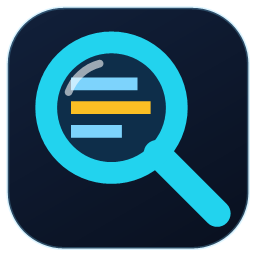
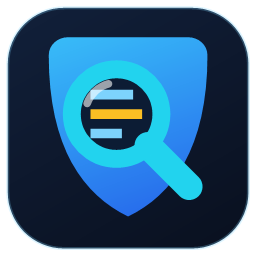
Rebrand to CodeSentinel AI v1.1.0
New identity, icon and screenshots; documents the modern UI, the Logs
section, persistent settings, and the security posture of AI triage
(no bundled key, no key-entry screen, explicit consent, local-only by
default).

diff --git a/README.md b/README.md
@@ -1,17 +1,17 @@
 <div align="center">
 
-<img src="assets/app-256.png" width="120" alt="Code Sanitization Scanner">
+<img src="assets/app-256.png" width="120" alt="CodeSentinel AI">
 
-# Code Sanitization Scanner
+# CodeSentinel AI
 
-**Find sensitive words and hardcoded secrets anywhere in a codebase — and get a clean Excel report.**
+**AI-assisted source code security and sanitization scanner for Windows.**
 
-A Windows desktop app for source-code review and sanitization.
-Point it at a folder, give it your word lists, and it tells you exactly where every
-term and every hardcoded key appears — file, line, and whether it is real code or a comment.
+Point it at a project, give it your word lists, and it finds every sensitive term
+and every hardcoded secret — file, line, and whether the hit is real code or a comment —
+then writes a detailed Excel report.
 
 [![Download](https://img.shields.io/badge/Download-Windows%20Installer-2563eb?style=for-the-badge&logo=windows)](../../releases/latest)
-[![Version](https://img.shields.io/badge/version-1.0.0-informational?style=for-the-badge)](../../releases/latest)
+[![Version](https://img.shields.io/badge/version-1.1.0-38bdf8?style=for-the-badge)](../../releases/latest)
 [![Platform](https://img.shields.io/badge/Windows-10%20%7C%2011-0078d4?style=for-the-badge)](../../releases/latest)
 
 **[⬇ Download the latest release](../../releases/latest)**
@@ -20,88 +20,105 @@ term and every hardcoded key appears — file, line, and whether it is real code
 
 ---
 
-## What it does
+## Why
 
-Security reviews and sanitization passes usually mean grepping a repo for a long list of
-risky names — `accountNumber`, `password`, `apiKey`, `aadhaar` — and then checking every hit
-by hand. This app does the whole pass in one run and hands you a workbook you can actually
-work through: one sheet per term, every hit clickable straight to the file.
+Sanitization reviews usually mean grepping a repository for a long list of risky names —
+`accountNumber`, `password`, `apiKey`, `aadhaar` — then checking every hit by hand.
+CodeSentinel AI does the whole pass in one run and hands you a workbook you can actually
+work through, with every hit clickable straight to its file.
 
-It also looks for the thing a word list can never find: **hardcoded secret *values***, such as
-an AWS key or a live card number sitting in a string, even when the variable around it has a
-perfectly innocent name.
+It also finds what a word list never can: **hardcoded secret *values*** — an AWS key, a JWT,
+a live card number sitting in a string — even when the variable around it looks innocent.
 
 <div align="center">
-<img src="docs/screen-scan.png" width="760" alt="Scan tab">
+<img src="docs/screen-scan.png" width="820" alt="Scan dashboard">
 </div>
 
 ---
 
 ## Features
 
-### Scanning
-- **Any file type.** Scans the folder and every subfolder. Default is *every* file type; restrict it to `.js, .html, .py` or anything else when you want a narrower pass.
-- **Multiple word lists.** Load as many `.txt` lists as you like; duplicates across lists are merged automatically.
-- **Literal, safe matching.** Terms are matched literally, so `a:b*c[d]` never behaves like a regular expression.
-- **Whole-word mode.** Uses identifier boundaries, so `id` matches `user.id` and `(id)` but not `userId` or `identity`. Switch it off for substring matching.
-- **Case-sensitive or not**, your choice.
-- **Binary files are skipped automatically**, detected by content rather than by extension, so images, DLLs and archives never pollute the report.
-- **Large-file guard** with a configurable size limit, and folders such as `node_modules`, `.git`, `dist`, `build` skipped by default.
+### Scan dashboard
+- Project card: folder picker, multi-select word lists, live count of lists
+- Report card: output path, and file types (`*` for everything, or `.js, .html, .py`)
+- **Live progress**: files scanned, word matches, secret findings and duration update *while* the scan runs
+- Status at a glance: **Ready · Scanning · Completed · Failed · Stopped**
+- **Start / Stop** — scanning runs in a separate process, so the window never freezes and Stop really stops it
 
-### Code vs. comment — per occurrence
-A real lexer, not a naive search. For every match it tells you whether that *specific*
-occurrence sits in executable code or inside a comment:
+### Scanning engine
+- **Any file type**, folder and all subfolders
+- Multiple word lists, merged and de-duplicated
+- **Literal matching** — a term like `a:b*c[d]` is never treated as a regular expression
+- **Whole-word mode** using identifier boundaries: `id` matches `user.id`, not `userId`
+- Case-sensitive mode, substring mode, one-row-per-occurrence mode
+- **Binary files skipped by content** (not by extension), plus a configurable size limit and excluded folders
 
-- JavaScript / TypeScript / JSON and C-like languages (Java, C, C++, C#, Go, Swift, Kotlin, PHP): `//`, `/* */`, JSDoc, strings, template literals with `${ }`, and regex literals
-- HTML / XML / SVG / Vue: `<!-- -->` across lines
-- CSS, SCSS, LESS
-- Python, Shell, Ruby, YAML, PowerShell, TOML: `#` comments
-- Anything else is still scanned, and reported as `Unknown` rather than guessed
+### Code vs. comment, per occurrence
+A real lexer, not a naive search:
 
-So `const id = 5; // temporary id` correctly produces **both** a `Code` row and a `Comment` row —
-and `"/* not a comment */"` inside a string is correctly reported as code.
+| Languages | Comments understood |
+|---|---|
+| JS / TS / JSON, Java, C, C++, C#, Go, Swift, Kotlin, PHP | `//`, `/* */`, JSDoc, strings, template literals with `${ }`, regex literals |
+| HTML, XML, SVG, Vue | `<!-- -->` across lines |
+| CSS, SCSS, LESS | `/* */`, and `//` for SCSS/LESS |
+| Python, Shell, Ruby, YAML, PowerShell, TOML | `#` to end of line |
+| anything else | scanned, and honestly reported as `Unknown` |
+
+`const id = 5; // temporary id` yields **both** a `Code` row and a `Comment` row — and
+`"/* not a comment */"` inside a string is correctly reported as code.
 
 ### Hardcoded secret detection
-Independent of your word lists, 16 built-in patterns look for real secret *values*:
+16 built-in patterns for real secret values:
 
 | | |
 |---|---|
-| Private key blocks | `-----BEGIN ... PRIVATE KEY` |
-| Cloud / service keys | AWS access + secret keys, Google API keys, Stripe, SendGrid, npm |
+| Private keys | `-----BEGIN ... PRIVATE KEY` |
+| Cloud / service | AWS access + secret keys, Google API keys, Stripe, SendGrid, npm |
 | Source control | GitHub, GitLab, Slack tokens |
-| Auth material | JWTs, Bearer tokens, `Authorization: Basic` headers |
+| Auth material | JWTs, Bearer tokens, `Authorization: Basic` |
 | Credentials in URLs | `postgres://user:password@host/db` |
-| Assignments | `password = "..."`, `apiKey = "..."` (placeholders like `${VAR}` and `process.env.X` are ignored) |
-| Payment cards | card numbers validated with the **Luhn checksum**, so random digits don't flood the report |
+| Assignments | `password = "..."`, `apiKey = "..."` (`${VAR}` and `process.env.X` ignored) |
+| Payment cards | validated with the **Luhn checksum**, so random digits don't flood the report |
 
 Findings are severity-ranked (Critical / High / Medium), colour-coded, and the matched value is
-**masked** in the report (`AKIA...MPLE`) so the workbook itself doesn't become a second leak.
+**masked** (`AKIA...MPLE`) so the report never becomes a second leak.
 
-### Optional AI triage
-Turn it on and each secret finding — the matched line plus a little context — is sent to an AI
-model, which labels it `real_secret`, `sanitized_or_test`, or `false_positive` with a one-line
-reason, written into two extra columns.
-
-Works with **Claude (Anthropic)**, **ChatGPT (OpenAI)** or **Gemini (Google)** — pick the provider
-in Options. It is **off by default**, runs only when you supply your own API key, and has a
-"max findings" cost cap.
-
-> **Privacy:** AI triage sends the matched source lines to the provider you choose and bills your
-> own API key. Leave it off if the code must not leave your machine — everything else runs fully offline.
-
-### The Excel report
+### Logs — everything is visible
 <div align="center">
-<img src="docs/screen-options.png" width="760" alt="Options tab">
+<img src="docs/screen-logs.png" width="820" alt="Logs">
 </div>
 
-- **Scan_Summary** — what was scanned, counts, configuration, skipped/binary files, warnings
-- **Word_Index** — every word from your lists, row by row: highlighted and **clickable** when found, grey when not
-- **Secrets_Found** — hardcoded secrets by severity, with masked values and clickable paths
-- **One sheet per term that has matches** — Line Number, clickable File Location, the full Code line, and Comment Status
-- Frozen headers, filters, wrapped code column, sensible widths, and a **« Word Index** back-link on every sheet
+A dedicated Logs section with timestamp, level, component and message, including full
+engine output and exception detail. Filter by level, search, auto-scroll, **Copy**,
+**Export diagnostics**, **Open log folder**, **Clear**. Logs are also written to disk at
+`%LOCALAPPDATA%\CodeSentinelAI\logs` — so a failure can always be investigated after the fact.
+When a scan fails you get a plain-language message *and* a button that takes you straight here.
 
-Terms with no matches don't create a sheet (they stay listed in Word_Index), so the workbook
-holds only what matters.
+### Options that persist
+<div align="center">
+<img src="docs/screen-options.png" width="820" alt="Options">
+</div>
+
+Matching, file selection, secret detection, AI triage and report defaults — with
+**Save settings** and **Reset to defaults**. Settings survive restarts
+(`%LOCALAPPDATA%\CodeSentinelAI\settings.json`).
+
+### AI triage — optional, and off by default
+AI classification labels each secret finding `real_secret`, `sanitized_or_test` or
+`false_positive` with a one-line reason, written into the report.
+
+**The app ships no API key and has no key-entry screen.** It uses a credential supplied by the
+environment of the machine it runs on; when none is present the app says plainly
+*"AI service: not configured"* and **all local scanning continues to work**. Enabling it also
+requires ticking an explicit consent box, because matched source lines are sent to the provider.
+A max-findings cost cap is always applied.
+
+### The Excel report
+- **Scan_Summary** — configuration, counts, skipped/binary files, warnings, tool attribution
+- **Word_Index** — every term, clickable, highlighted when found, grey when not
+- **Secrets_Found** — severity-sorted, masked values, clickable paths
+- **One sheet per matched term** — line number, clickable file path, full code line, comment status
+- Frozen headers, filters, and a **« Word Index** back-link on every sheet
 
 Built with the ImportExcel engine — **Microsoft Excel is not required to create the report**, only to open it.
 
@@ -109,29 +126,26 @@ Built with the ImportExcel engine — **Microsoft Excel is not required to creat
 
 ## Install
 
-1. **[Download `CodeScanner-Setup-1.0.0.exe` from the latest release](../../releases/latest)**
-2. Run it. It installs for **your user only — no administrator rights needed.**
-3. Choose the folder (default `%LOCALAPPDATA%\Programs\CodeScanner`), pick whether you want a desktop shortcut, and press **Install**.
+1. **[Download `CodeSentinelAI-Setup-1.1.0.exe`](../../releases/latest)**
+2. Run it — installs for **your user only, no administrator rights**
+3. Pick the folder, choose shortcuts, press **Install**
 
 <div align="center">
-<img src="docs/screen-setup.png" width="560" alt="Setup window">
+<img src="docs/screen-setup.png" width="560" alt="Setup">
 </div>
 
-> **Windows SmartScreen:** the app isn't code-signed (a certificate costs money), so Windows may show
-> *"Windows protected your PC"*. Click **More info → Run anyway**. If you prefer, scan the file with
-> VirusTotal or your own antivirus first.
+> **SmartScreen:** the app is not code-signed (certificates cost money), so Windows may show
+> *"Windows protected your PC"* → **More info → Run anyway**.
 
-**Uninstall** any time from *Settings → Apps → Installed apps → Code Sanitization Scanner*, or run
-`uninstall.exe` in the install folder.
-
-There is also a **portable** `CodeScanner.exe` in the release — it needs no installation at all, just run it.
+Uninstall from *Settings → Apps → Installed apps → CodeSentinel AI*, or `uninstall.exe` in the
+install folder. A **portable** `CodeSentinelAI.exe` is also in the release — no installation needed.
 
 ---
 
-## How to use it
+## How to use
 
-### 1. Make a word list
-A plain `.txt` file, **one term per line**:
+### 1. Create a word list
+A plain `.txt` file, one term per line:
 
 ```text
 accountNumber
@@ -141,39 +155,22 @@ aadhaar
 customerId
 ```
 
-Tip: include the naming variants your codebase actually uses — `account_number`, `accountNo`,
-`acctNum` — because whole-word mode matches identifiers exactly.
+Include the naming variants your code actually uses (`account_number`, `acctNo`) — whole-word
+mode matches identifiers exactly.
 
 ### 2. Run a scan
-1. Open the app, **Scan** tab
-2. **Folder to scan** → *Browse* and pick your project (subfolders are included)
-3. **Word lists** → *Add...* and select one or more `.txt` files
-4. **Save report to** → where the `.xlsx` should go
-5. **File types** → leave `*` for everything, or type `.js, .html, .py`
-6. Press **Start scan**
+1. **Scan** → **Browse** and pick your project folder
+2. **Add...** one or more word-list `.txt` files
+3. Choose where to **save the report**
+4. Leave **File types** as `*`, or narrow it
+5. Press **Start Scan** — watch the live counters
 
-Progress streams into the log panel. When it finishes, **Open report** opens the workbook and
-**Open folder** reveals it in Explorer.
+When it finishes: **Open report** or **Open folder**. If anything goes wrong, the message
+points you to **Logs**, which holds the full engine output.
 
-> On the very first run the app offers to download the **ImportExcel** module (one time, needs
-> internet). Say yes — reports can't be written without it.
-
-### 3. Work through the results
-Start at **Word_Index** to see which terms actually appear, click a word to jump to its sheet,
-then click any file path to open the file. Check **Secrets_Found** first if you're hunting
-leaked credentials — it's sorted by severity.
-
-### 4. (Optional) Turn on AI triage
-In **Options → AI triage**, tick the box and pick your provider. Set the matching API key once,
-then restart the app:
-
-```powershell
-setx ANTHROPIC_API_KEY "your-key"   # Claude   - console.anthropic.com
-setx OPENAI_API_KEY    "your-key"   # ChatGPT  - platform.openai.com
-setx GEMINI_API_KEY    "your-key"   # Gemini   - aistudio.google.com
-```
-
-The key is read from your environment — it is never stored in the app or written into the report.
+### 3. Read the results
+Start at **Word_Index** to see which terms actually appear, click a term to jump to its sheet,
+then click a file path to open the file. Check **Secrets_Found** first when hunting credentials.
 
 ---
 
@@ -183,28 +180,32 @@ The key is read from your environment — it is never stored in the app or writt
 |---|---|
 | OS | Windows 10 or 11 |
 | PowerShell | 5.1 — already part of Windows |
-| Admin rights | Not needed |
-| Internet | Only for the one-time ImportExcel download, and for AI triage if you enable it |
+| Admin rights | Not required |
+| Internet | Only for the one-time ImportExcel download (and AI triage, if ever enabled) |
 | Microsoft Excel | Not needed to create reports, only to open them |
+
+The only dependency is the **ImportExcel** PowerShell module, which the app offers to install
+on first run into its own folder (`%LOCALAPPDATA%\CodeSentinelAI\Modules`) — it never touches
+your system module paths.
 
 ---
 
 ## FAQ
 
 **Does my code leave my machine?**
-No — unless you explicitly enable AI triage, which sends only the matched lines to the provider you pick.
+No. Scanning is entirely local. Only if you explicitly enable AI triage *and* tick the consent box
+are matched lines sent to an AI provider.
 
 **Why was a file skipped?**
-It was binary (detected by content), larger than the size limit, or inside an excluded folder.
-Exact counts are in `Scan_Summary`.
+It was binary (detected by content), over the size limit, or in an excluded folder — exact counts
+are in `Scan_Summary` and in the Logs.
 
-**How fast is it?**
-A 120,000-line benchmark against 286 search terms completes in well under a minute; a real
-13,700-file project with 312 terms and 205 secret findings runs end to end in about 13 minutes,
-most of it spent writing the workbook.
+**A scan failed. What now?**
+Open **Logs**. The failure, the full engine output and the exception detail are all there, and
+**Export** produces a diagnostics file.
 
 **Where is the source code?**
-This repository publishes the application only. The source is kept in a private repository.
+This repository publishes the application only; the source is kept in a private repository.
 
 ---
 
@@ -216,13 +217,17 @@ Created by **Devashish**
 
 ---
 
-## ☕ Buy me a coffee
+## ☕ Support CodeSentinel AI
 
-If this tool saved you an afternoon of grepping, a small tip is very welcome.
-Scan with **PhonePe, Google Pay, Paytm** or any UPI app:
+If CodeSentinel AI helps you identify security risks and save development time, consider
+supporting its continued development. Every contribution helps improve and maintain this project.
 
 <div align="center">
-<img src="assets/donate-phonepe.jpg" width="300" alt="UPI donation QR for Devashish">
+<img src="assets/donate-phonepe.jpg" width="300" alt="UPI QR">
+
+**Scan to Pay** · PhonePe, Google Pay, Paytm or any UPI app
+
+**UPI ID:** `devashishnaagarpnb@ybl`
 
 **Thank you for your support!**
 </div>
@@ -230,5 +235,6 @@ Scan with **PhonePe, Google Pay, Paytm** or any UPI app:
 ---
 
 <div align="center">
+<sub>Built with care by Devashish. Thank you for supporting independent software development.</sub><br>
 <sub>© 2026 Devashish · Free to use · Provided as-is, without warranty</sub>
 </div>
